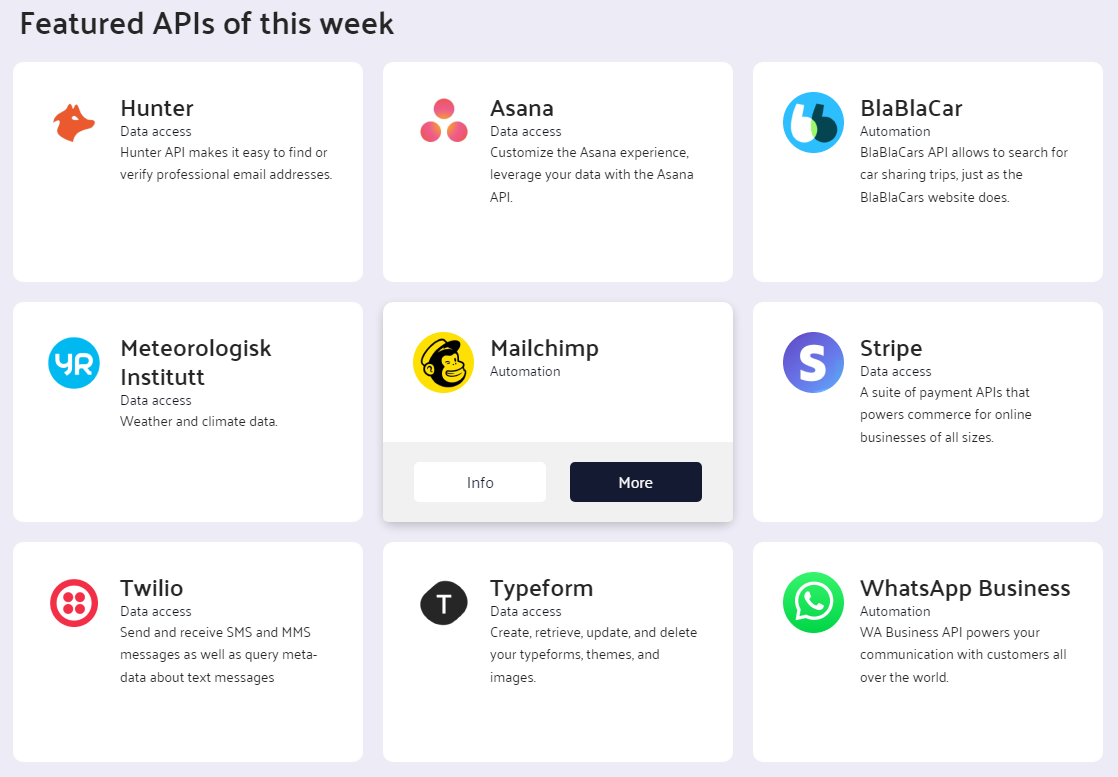
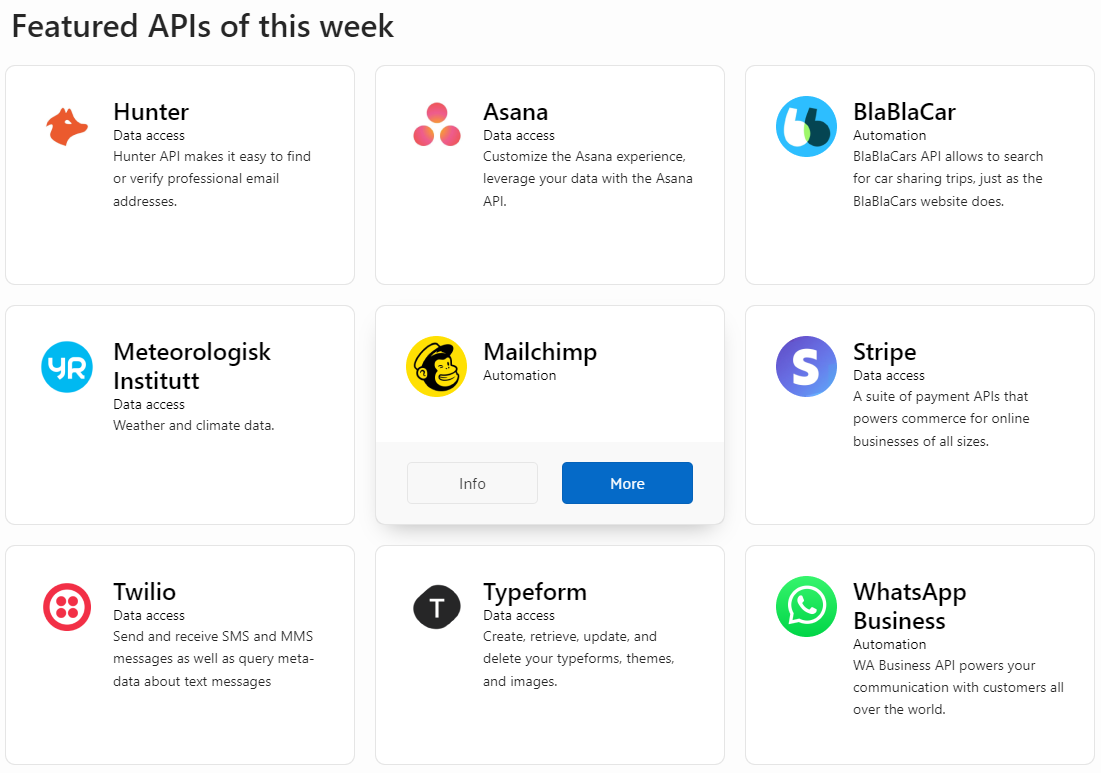
v23.2.1

diff --git a/README.md b/README.md
@@ -125,19 +125,24 @@ In the Redirect Link, you can use the **&APILINK.** substitution to bring throug
 
 Using a Link Attribute of **target="_blank"** opens in a new tab
 
+Use a HOT button to highlight the button
+
 ![actions image](assets/actions.png)
 
-## Contrast
+## Upgrading from a previous version
 
-On a white background you can adjust the card colours in this way
+If you encounter an ORA-02091...
 
-```css
-.luf-eachCard {
-    background-color: #F1F1F1F1;
-}
-```
+![actions image](assets/ora-02091.png)
 
-![colour image](assets/colour.png)
+... this is due to APEX bug 36147888 related to the import feature. [See here for more details](https://twitter.com/mennooo/status/1742194606454743264).
+
+To resolve this:
+1. In your app, make a note of the settings of all Actions in all occurrences of the plugin.
+2. Remove all Actions from all occurrences of the plugin in your app.
+3. Import the Plug-in (It will be succesfully imported this time).
+4. Manually restore the settings of all Actions.
+
 
 ## Images
 
@@ -153,6 +158,14 @@ Images work best with a 60x60 pixel resolution i.e
 ![image example](https://imgpile.com/images/uBmHUg.png)
 ![image example](https://imgpile.com/images/uBmoic.png)
 
+### 23.2.1 (Jan 2024)
+
+#### Enhancements
+- Aligned to the Universal Theme
+- Dark Mode support
+
+### 23.1.1 (Aug 2023)
+- Initial Release
 
 ## Credits
 
@@ -162,4 +175,4 @@ Adapted to APEX by Matt Mulvaney (https://x.com/Matt_Mulvaney)
 
 ## Donations
 
-Donations to [Saint Michael's Hospice](https://www.justgiving.com/saintmichaelshospice) are welcomee
+Donations to [Saint Michael's Hospice](https://saintmichaelshospice.org/support-our-work/donate/one-off-donation/) are welcomee
